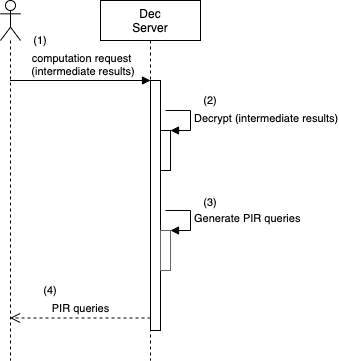
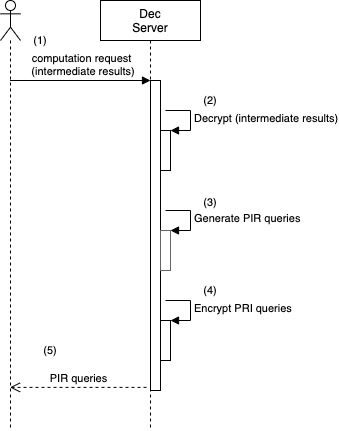
Update basic spec

diff --git a/fts/fts_cs/fts_cs_srv.hpp b/fts/fts_cs/fts_cs_srv.hpp
@@ -32,12 +32,16 @@ public:
     /**
      * コンストラクタ
      * @param[in] port ポート番号
+     * @param[in] LUT_filepath LUTファイルパス
      * @param[in] callback コールバック関数定義
      * @param[in] state 状態遷移定義
+     * @param[in] max_concurrent_query 最大同時クエリー数
      */
     CSServer(const char* port,
+             const std::string& LUT_filepath,
              stdsc::CallbackFunctionContainer& callback,
-             stdsc::StateContext& state);
+             stdsc::StateContext& state,
+             const uint32_t max_concurrent_query = DEFAULT_MAX_CONCURRENT_QUERY);
     ~CSServer(void) = default;
 
     /**

diff --git a/fts/fts_user/fts_user_cs_client.hpp b/fts/fts_user/fts_user_cs_client.hpp
@@ -60,8 +60,9 @@ public:
      * 結果受信
      * @param[in] query_id queryID
      * @param[out] enc_result 暗号化された結果
+     * @return 結果が受信できたか否か
      */
-    voi recv_result(const int32_t query_id, fts_share::EncData& enc_result) const;
+    bool recv_result(const int32_t query_id, fts_share::EncData& enc_result) const;
 
 private:
     struct Impl;

diff --git a/fts/fts_user/fts_user_dec_client.hpp b/fts/fts_user/fts_user_dec_client.hpp
@@ -57,8 +57,9 @@ public:
     /**
      * 鍵ペア削除
      * @param[in] key_id keyID
+     * @return 処理に成功したか否か
      */
-    void delete_keys(const int32_t key_id) const;
+    bool delete_keys(const int32_t key_id) const;
 
 private:
     struct Impl;

diff --git a/doc/spec-ja/source/02_system_overview.md b/doc/spec-ja/source/02_system_overview.md
@@ -1,6 +1,7 @@
 # システム概要
 
-準同型表探索による関数計算ライブラリ(以下,本ライブラリ)は, Userの機能を提供する *Userライブラリ* , Decryptorの機能を提供する *Decryptorライブラリ* , ComputationServerの機能を提供する *ComputationServerライブラリ* から構成される. 各ライブラリはそれが示すパーティのアプリケーションを実装する際に利用されることを想定している. 以下に,各ライブラリを使用して作成されたUserアプリケーション(図中のUser), Decryptorアプリケーション(図中のDecryptor)およびComputationServerアプリケーション(図中のComputationServer)の3つのアプリケーションが互いに連携して準同型表探索による関数計算プロトコルの処理を行う例を示す.
+準同型表探索による関数計算ライブラリ(以下,本ライブラリ)は, Userパーティの機能を
+提供する *Userライブラリ* , Decryptorパーティの機能を提供する *Decryptorライブラリ* , ComputationServerパーティの機能を提供する *ComputationServerライブラリ* から構成される. 各ライブラリはそれが示すパーティのアプリケーションを実装する際に利用されることを想定している. 以下に,各ライブラリを使用して作成されたUserアプリケーション(図中のUser), Decryptorアプリケーション(図中のDecryptor)およびComputationServerアプリケーション(図中のComputationServer)の3つのアプリケーションによる処理フローを示す.
 
 ```eval_rst
 .. image:: images/fhetbl_design-flow.png
@@ -10,38 +11,38 @@
 
 ## User
 
-Userライブラリを使用して作成されたアプリケーションは,クライアントアプリケーションとして動作する. 以下に処理フローを示す.
+Userは,クライアントアプリケーションとして動作する. 以下に処理フローを示す.
 
 * 新規の鍵ペアを生成するためのリクエストをDecryptorへ送信し,keyIDと鍵ペア(SecretKeyおよびPublicKey)を受け取る( **(1)** )
-* 入力値(1つもしくは2つ)を暗号化し,keyIDと共にComputationServerへ送信する( **(4)** )
-* 結果リクエストをComputationServerへ送信し,暗号化された結果を取得する( **(11)** ). ただし,ComputationServerで計算が完了していない場合はその旨の応答が返ってくる.
-* 暗号化された結果をSecretKeyを用いて復号化し,計算結果を得る( **(12)** )
-* **(1)** で生成した鍵ペアは,そのままDecryptor上に保持しておくこともできるが,鍵ペア破棄リクエストをkeyIDと共にDecryptorへ送信することで,keyIDに対応した鍵ペアを破棄する( **(13)** )
+* 入力値(1つもしくは2つ)を暗号化する( **(3)** )
+* クエリ(keyIDと暗号化された入力値)をComputationServerへ送信し,queryIDを取得する( **(4)** )
+* 結果リクエストをComputationServerへ送信し,queryIDに対応した結果を取得する( **(10)** ). ただし,queryIDに対応した計算が完了していない場合は,その旨の応答が返ってくる.
+* 暗号化された結果をSecretKeyを用いて復号化し,計算結果を得る( **(11)** )
+* **(1)** で生成した鍵ペアは,そのままDecryptor上に保持しておくこともできるが,鍵ペア破棄リクエストをDecryptorへ送信することで,keyIDに対応した鍵ペアを破棄することができる( **(13)** )
 
 ## Decryptor
 
-Decryptorライブラリを使用して作成されたアプリケーションは,サーバアプリケーションとして動作する. 外部から受け取ったリクエストに対して,対応する処理を行った上でレスポンスを返す. 以下にリクエストと処理の概要を示す.
+Decryptorは,サーバアプリケーションとして動作する. 外部から受け取ったリクエストに対して,対応する処理を行った上でレスポンスを返す. 以下に処理フローを示す.
 
-* 新規の鍵ペアを生成するためのリクエスト受信時
-  * 新規の鍵ペアを生成し,識別子となるkeyIDを生成した上で,鍵ペアとkeyIDをレスポンスとして返す( **(2)** )
+* 新規鍵ペア生成リクエスト受信時
+  * 新規の鍵ペアとそれを識別するkeyIDを生成した上で,鍵ペアとkeyIDをレスポンスとして返す( **(2)** )
 * 公開鍵リクエスト受信時
   * keyIDに対応した公開鍵が存在すればその公開鍵を,存在しなければその旨をレスポンスとして返す( **(5)** )
 * 計算リクエスト(中間結果)受信時
-  * 中間結果を復号化し,PIRクエリを生成して,それをレスポンスとして返す( **(9)** )
+  * 中間結果を復号化し,PIRクエリを生成して,それを再度暗号化した上でレスポンスとして返す( **(8)** )
 * 鍵ペア破棄リクエストを受信時
-  * keyIDに対応した鍵ペアを破棄し,処理結果をレスポンスとして返す( **(14)** )
+  * keyIDに対応した鍵ペアを破棄し,処理結果をレスポンスとして返す( **(13)** )
 
 ## ComputationServer
 
-ComputationServerライブラリを使用して作成されたアプリケーションは,サーバアプリケーションとして動作する. 外部から受け取ったリクエストに対して,対応する処理を行った上でレスポンスを返す. 以下にリクエストと処理の概要を示す.
+ComputationServerは,サーバアプリケーションとして動作する. 外部から受け取ったリクエストに対して,対応する処理を行った上でレスポンスを返す. 以下に処理フローを示す.
 
-* クエリを受信時
-  * クエリを識別するためのqueryIDを生成した上で,計算を非同期で開始する. その上でqueryIDをレスポンスとして返す( **(4)** )
+* クエリ受信時
+  * クエリを識別するためのqueryIDを生成した上で,queryIDをレスポンスとして返す。. 受信した暗号化データを入力として計算を非同期で開始する.( **(4)** )
   * 非同期で以下の処理を行う
-    * 公開鍵リクエストをkeyIDと共にDecryptorへ送信し,公開鍵を受信する( **(5)** )
-    * Look Up Table(以下, LUT)を生成する( **(6)** )
-    * クエリの暗号化された入力値を元に,中間結果をLUTから探索した上で,それをkeyIDと共にDecryptorへ送信し,PIRクエリを受信する( **(8)** )
-    * PRIクエリを元に出力値をLUTから探索する( **(10)** )
+    * 公開鍵リクエストをDecryptorへ送信し,公開鍵を受信する( **(5)** )
+    * 暗号化された入力値を元に,中間結果をLUTから探索した上で,それをDecryptorへ送信し,PIRクエリを受信する( **(6)(7)** )
+    * PRIクエリを元にクエリを再構築し,LUTから出力値を探索する( **(9)** )
 * 結果リクエスト受診時
-  * queryIDに対する計算が完了していた場合は,その暗号化された結果をレスポンスとして返す. 計算が完了していない場合は,その旨をレスポンスとして返す( **(11)** )
+  * queryIDに対する計算が完了していた場合は,その出力値をレスポンスとして返す. 計算が完了していない場合は,その旨をレスポンスとして返す( **(10)** )
 

diff --git a/doc/spec-ja/source/04_appendix.md b/doc/spec-ja/source/04_appendix.md
@@ -1,9 +1,25 @@
 # Appendix
 
-## 標準サーバ・クライアントライブラリ
+## stdsc : 標準サーバ・クライアントライブラリ
 
-本ライブラリを実装するにあたり,サーバやクライアントの標準的機能は外部ライブラリであるstdscを用いて実現するものとする.
+本ライブラリを実装するにあたり,サーバやクライアントの基本的なネットワーク実装は外部ライブラリである`stdsc`を用いて実現するものとする.
 
-stdsc (Standard Server Client library): https://github.com/yamanalab/stdsc
+stdsc (STanDard Server Client library): https://github.com/yamanalab/stdsc
 
 このライブラリは,サーバの状態遷移を実装するためのフレームワーク,特定のリクエストに対するコールバックを実装するためのフレームワーク,またクライアントのデータ送受信機能などを提供する. 詳細は上記URLのREADMEおよび同梱のexamplesを参照のこと.
+
+
+## LUTファイルフォーマット
+
+LUTファイルの入力数1の場合と2の場合とでそれぞれ用意する.
+以下にフォーマットを示す.
+
+```eval_rst
+.. image:: images/fhetbl_design-LUT_fileformat.png
+   :align: center
+   :scale: 70%
+```
+
+```eval_rst
+1行目は項目数を記述し, 2行目以降は入力値 :math:`x0` , :math:`x1` と出力値 :math:`f(x0,x1)` のペアを各行に記述する (入力数が1の場合は, :math:`x0` および :math:`f(x0)` とする).
+```
